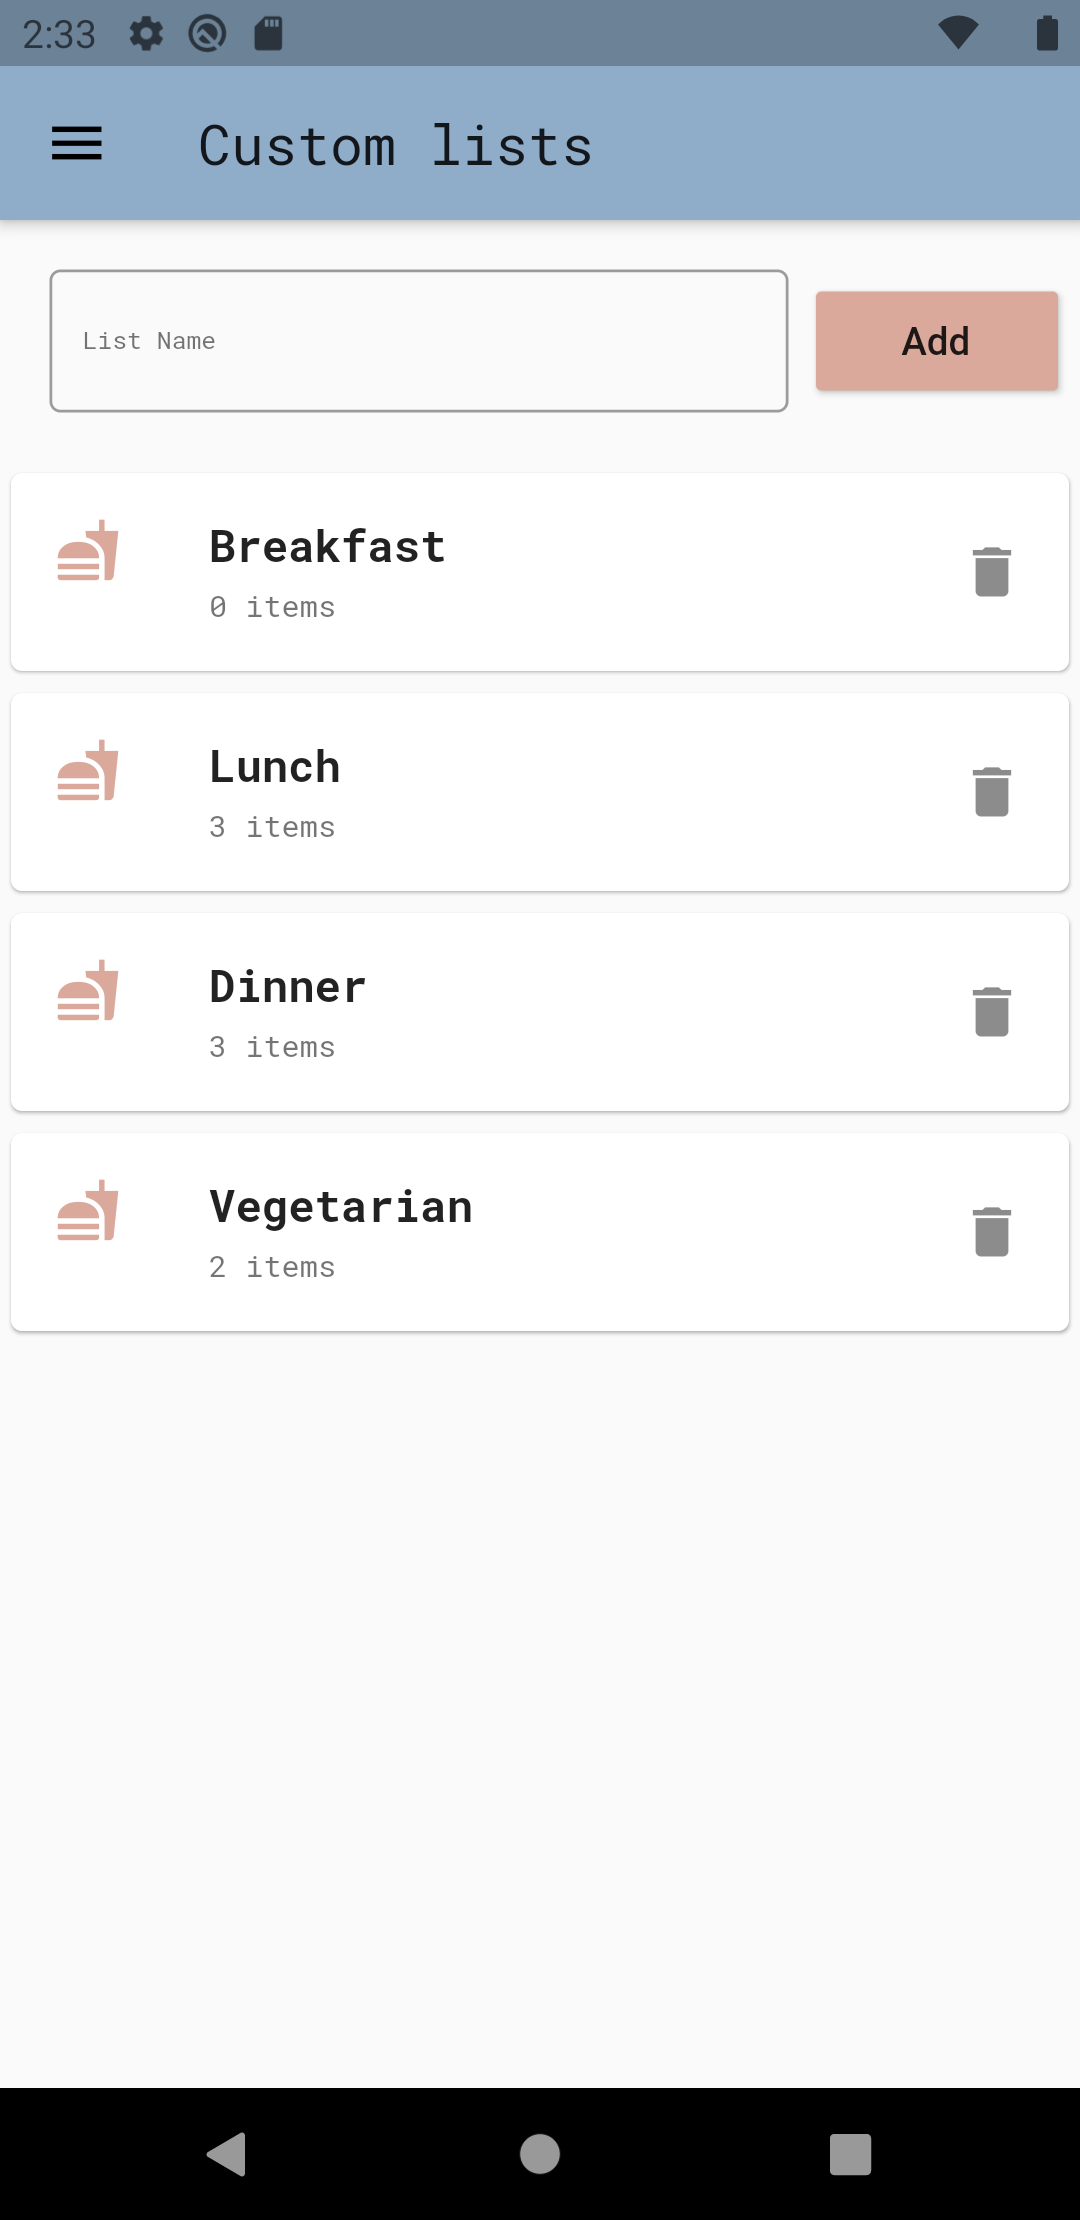
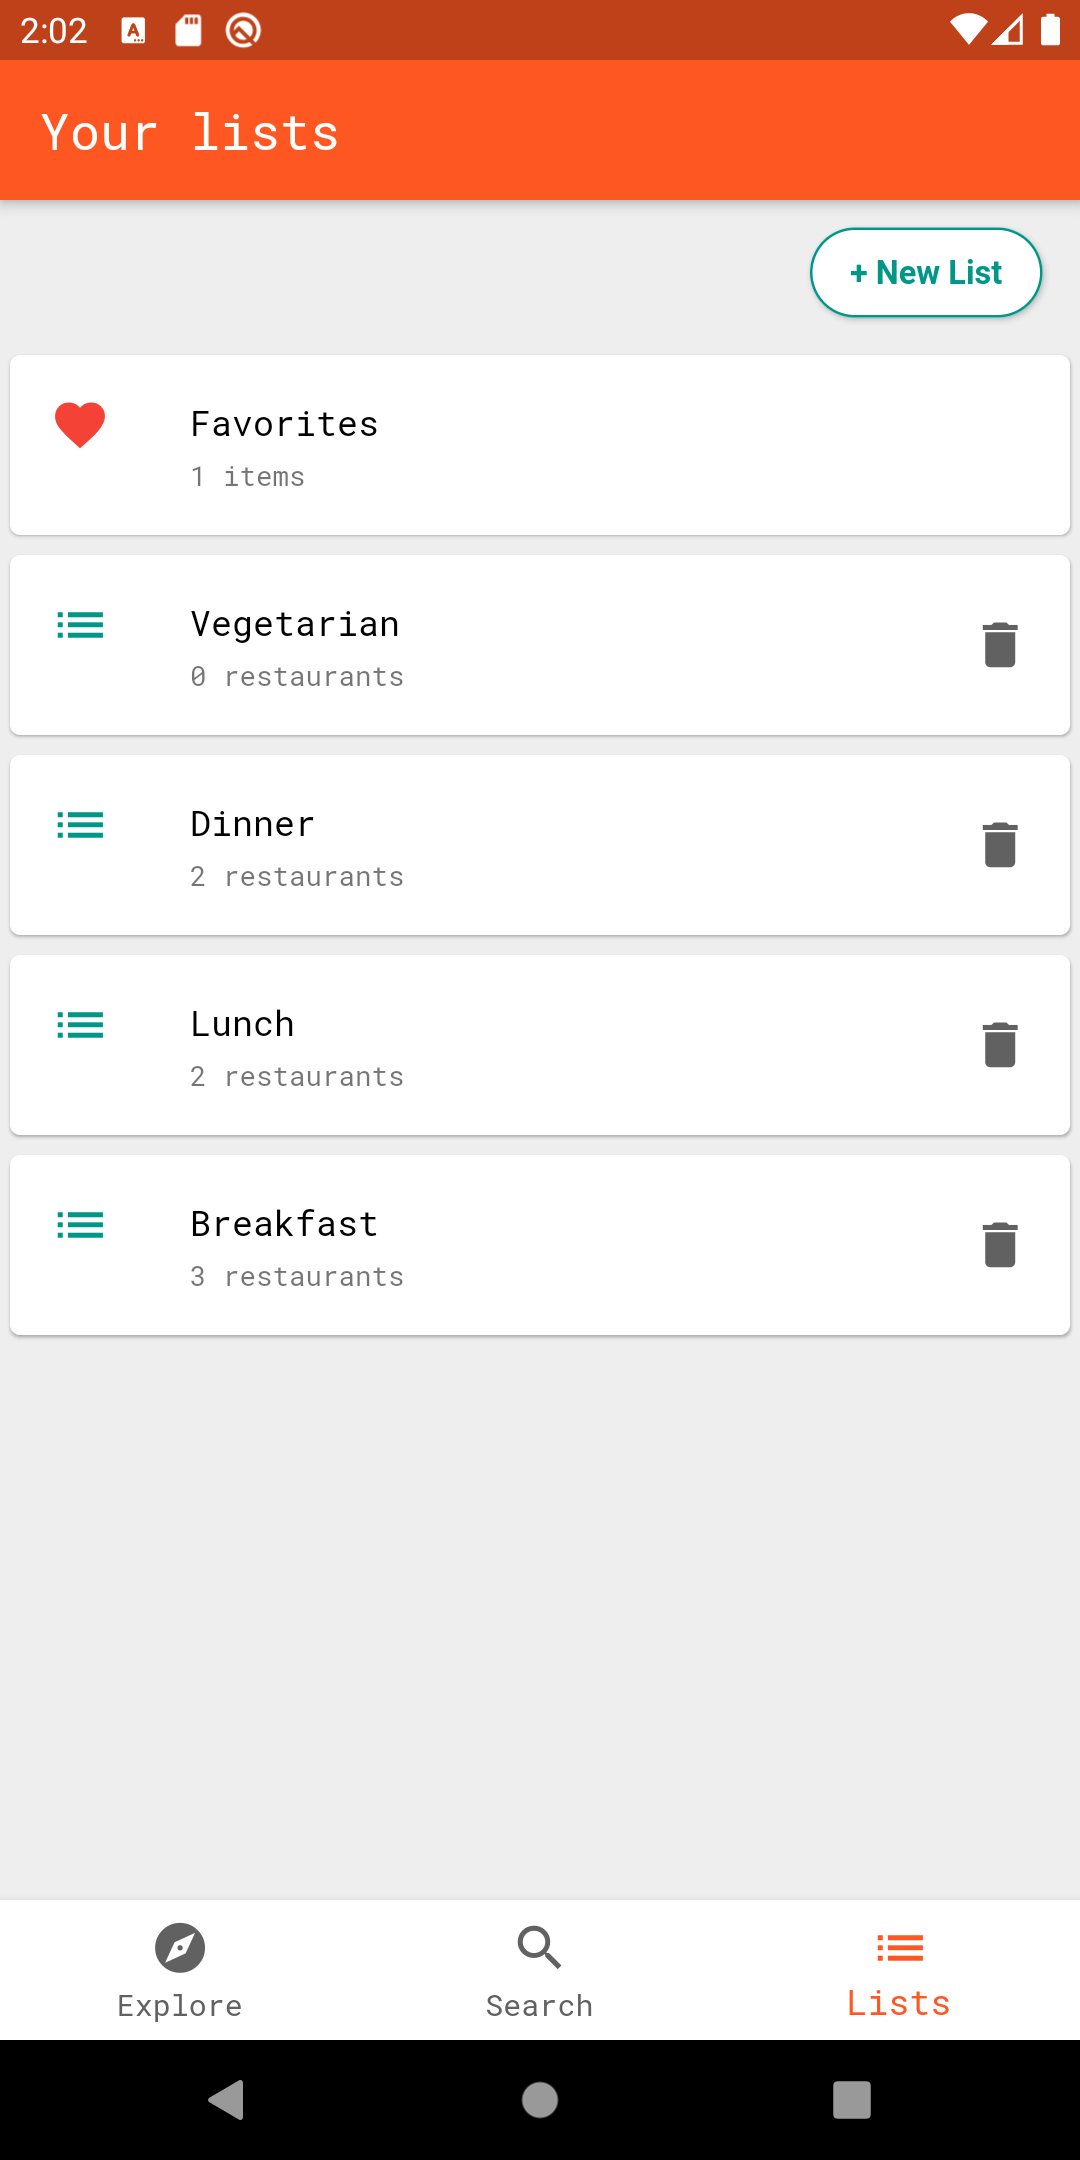
updated screenshots and readme

diff --git a/README.md b/README.md
@@ -10,7 +10,7 @@ Not yet available
 
 <p float="left">
   <img src="./images/nearby.png" width="200" />
-  <img src="./images/nav_drawer.png" width="200" /> 
+  <img src="./images/search.png" width="200" /> 
   <img src="./images/favorites.png" width="200"/>
 </p>
 
@@ -34,8 +34,8 @@ Not yet available
 - [x] Firebase Integration
 - [x] User Authentication
 - [x] Share lists between users
-- [ ] Search improvements
-- [ ] Dark mode
+- [x] Search improvements
+- [x] Dark mode
 - [ ] IOS 
-- [ ] Improve readme
+- [x] Improve readme
 - [ ] Unit tests
